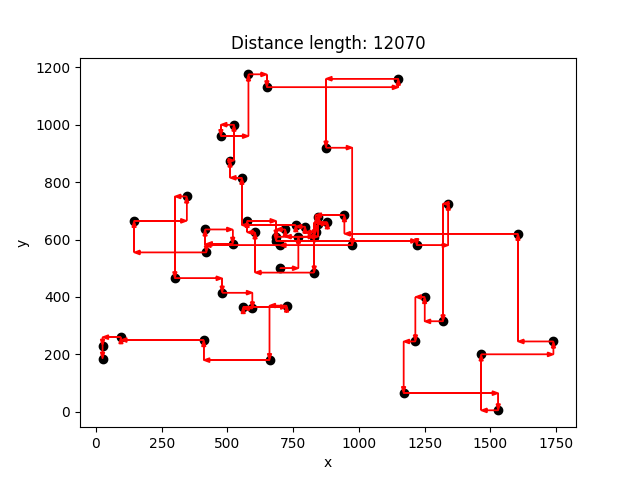
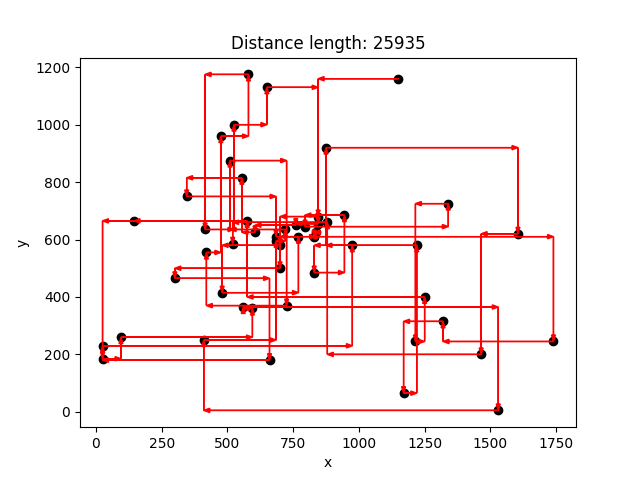
update #2

diff --git a/2hw.py b/2hw.py
@@ -6,23 +6,9 @@ import random
 
 
 def random_swap(size, path):
-    for i in range(1000):
-        pair_num = 20
-        tmp_path = list(range(size))
-        random.shuffle(tmp_path)
-        idx_x = tmp_path[:pair_num]
-        random.shuffle(tmp_path)
-        idx_y = tmp_path[:pair_num]
-        best_dist = 1e6
-        best_path = None
-        for (i, j) in list(zip(idx_x, idx_y)):
-            swap_path = copy.copy(path)
-            swap_path[i], swap_path[j] = swap_path[j], swap_path[i]
-            swap_dist = count_dist(swap_path)
-            if best_dist > swap_dist:
-                best_dist = swap_dist
-                best_path = swap_path
-        path = best_path
+    for r in range(1000):
+        i, j = random.randint(0, size - 1), random.randint(0, size - 1)
+        path[i], path[j] = path[j], path[i]
     return path
 
 
@@ -37,7 +23,7 @@ count_dist = partial(lib.count_dist, x, y)
 best_path = list(range(size))
 best_dist = 1e6
 
-for i in range(100):
+for i in range(1000000):
     init_path = list(range(size))
     random.shuffle(init_path)
     path = random_swap(size, init_path)
